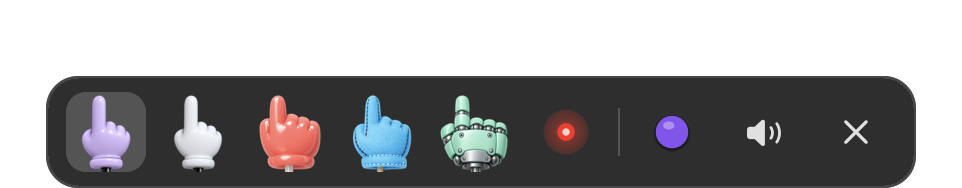
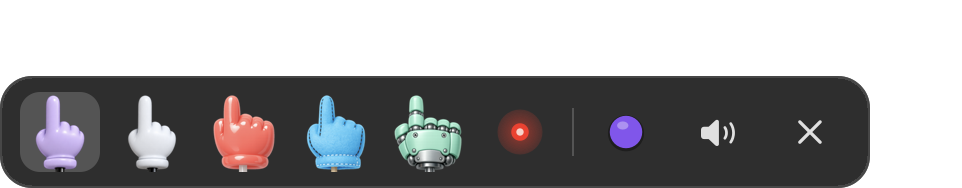
Toolbar images: both aligned left

Changed region(s): [[0.0, 0.3989, 0.9667, 1.0]]

diff --git a/AGENTS.md b/AGENTS.md
@@ -8,7 +8,7 @@ Fork of [nilbuild/tinyhand](https://github.com/nilbuild/tinyhand), a macOS menu 
 - Re-record the GIF: run `python3 prototypes/tap-motion/record_server.py`, open http://localhost:8766/prototypes/tap-motion/?record, run `await recordFrames()` in the console (dark theme by default; frames land in `prototypes/tap-motion/frames/`), then from that folder:
   `ffmpeg -y -framerate 25 -i %04d.png -vf "scale=680:-1:flags=lanczos,split[a][b];[a]palettegen=stats_mode=diff[p];[b][p]paletteuse=dither=bayer:bayer_scale=5" -loop 0 ../../../.github/tap-motion.gif`
 - Toolbar images `.github/toolbar-before.png` / `toolbar-after.png`: compile only the toolbar files with `scripts/fork/render-toolbar/main.swift` (full builds need SwiftPM; this works with plain `swiftc`), from the repo root so hand assets load:
-  `swiftc -D SWING_RANGE Sources/TinyHand/{Toolbar,AppKitHelpers,Preferences,PointerStyle,Ink,Log,HandMaker,TapSound}.swift scripts/fork/render-toolbar/main.swift -o /tmp/tb && /tmp/tb /tmp/after.png` (drop `-D SWING_RANGE` and use `upstream/main` sources for "before"), then place the `-range.png` tray 8 pt above the Swing range button.
+  `swiftc -D SWING_RANGE Sources/TinyHand/{Toolbar,AppKitHelpers,Preferences,PointerStyle,Ink,Log,HandMaker,TapSound}.swift scripts/fork/render-toolbar/main.swift -o /tmp/tb && /tmp/tb /tmp/after.png` (drop `-D SWING_RANGE` and use `upstream/main` sources for "before"), then place the `-range.png` tray 8 pt above the Swing range button; both images share one canvas size, toolbars aligned left.
 - The prototype is published to GitHub Pages by `.github/workflows/prototype-pages.yml`: https://tumaranja.github.io/tinyhand/prototypes/tap-motion/
 
 ## Decisions
